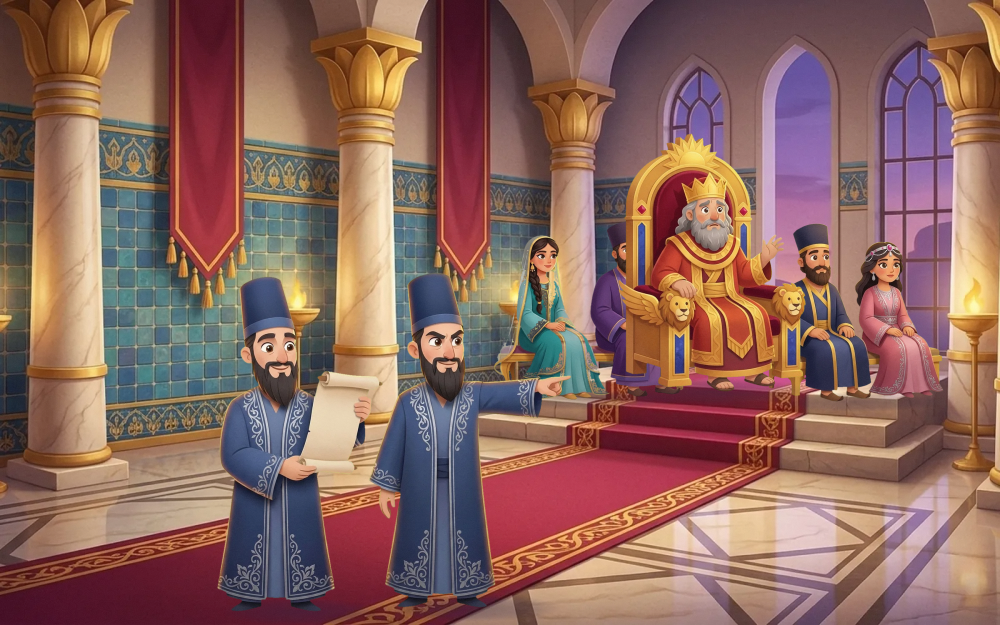
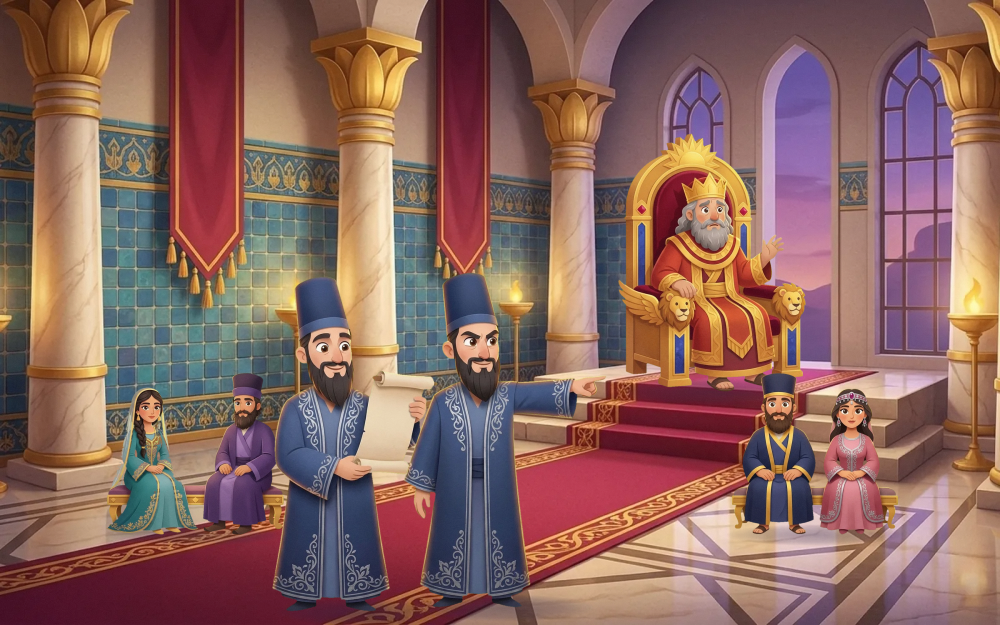
Daniel page 2: courtiers on the floor beside the carpet, facing the room
Both pairs regenerated facing the viewer and moved off the dais to floor
level either side of the carpet, inside the phone-safe zone. The officials
step right so the purple courtier stays visible; the scroll hotspot follows.

Changed region(s): [[0.093, 0.3648, 0.682, 1.0], [0.713, 0.3344, 0.961, 0.8816]]

diff --git a/src/scenes/daniel.tsx b/src/scenes/daniel.tsx
@@ -103,29 +103,6 @@ export function TheTrap() {
   return (
     <>
       <Backdrop src={trapBg} />
-      {/* courtiers seated on the dais either side of the throne, behind it */}
-      <SoftShadow x={590} y={400} rx={90} ry={10} opacity={0.35} />
-      <Layer
-        src={trapCourtiersLeft}
-        w={L["courtiers-left"].w}
-        h={L["courtiers-left"].h}
-        x={590}
-        y={400}
-        scale={0.32}
-        className="a-breathe-slow"
-        delay={1.1}
-      />
-      <SoftShadow x={855} y={402} rx={90} ry={10} opacity={0.35} />
-      <Layer
-        src={trapCourtiersRight}
-        w={L["courtiers-right"].w}
-        h={L["courtiers-right"].h}
-        x={855}
-        y={402}
-        scale={0.32}
-        className="a-breathe-slow"
-        delay={2.3}
-      />
       <SoftShadow x={712} y={392} rx={100} ry={14} opacity={0.4} />
       <Layer
         src={trapKing}
@@ -136,22 +113,45 @@ export function TheTrap() {
         scale={0.37}
         className="a-breathe-slow"
       />
-      <SoftShadow x={300} y={612} rx={80} ry={14} opacity={0.4} />
+      {/* courtiers seated on the floor either side of the carpet, facing the room */}
+      <SoftShadow x={195} y={535} rx={90} ry={11} opacity={0.35} />
+      <Layer
+        src={trapCourtiersLeft}
+        w={L["courtiers-left"].w}
+        h={L["courtiers-left"].h}
+        x={195}
+        y={535}
+        scale={0.29}
+        className="a-breathe-slow"
+        delay={1.1}
+      />
+      <SoftShadow x={815} y={535} rx={90} ry={11} opacity={0.35} />
+      <Layer
+        src={trapCourtiersRight}
+        w={L["courtiers-right"].w}
+        h={L["courtiers-right"].h}
+        x={815}
+        y={535}
+        scale={0.29}
+        className="a-breathe-slow"
+        delay={2.3}
+      />
+      <SoftShadow x={355} y={612} rx={80} ry={14} opacity={0.4} />
       <Layer
         src={trapOfficialScroll}
         w={L["official-scroll"].w}
         h={L["official-scroll"].h}
-        x={300}
+        x={355}
         y={612}
         scale={0.42}
         className="a-breathe"
       />
-      <SoftShadow x={470} y={608} rx={90} ry={14} opacity={0.4} />
+      <SoftShadow x={505} y={608} rx={90} ry={14} opacity={0.4} />
       <Layer
         src={trapOfficialPoint}
         w={L["official-point"].w}
         h={L["official-point"].h}
-        x={470}
+        x={505}
         y={608}
         scale={0.42}
         className="a-breathe-slow"

diff --git a/src/data/stories/daniel.ts b/src/data/stories/daniel.ts
@@ -58,7 +58,7 @@ export const daniel: Story = {
       hotspots: [
         {
           id: "scroll",
-          x: 32,
+          x: 38,
           y: 64,
           size: 22,
           label: "the new law",

diff --git a/docs/evidence/2026-09-18-trap-palace/record.md b/docs/evidence/2026-09-18-trap-palace/record.md
@@ -74,3 +74,29 @@ around the throne; both male and female courtiers." Background kept.
   `courtiers-right-sidecar.json`. Final render `trap-after-court.png`.
 - Browser (fresh context, bundle from this build): king hotspot lands on the
   king with the new throne; `trap-court-phone.png`.
+
+## Round 3: courtiers on the floor beside the carpet, facing the room
+
+User: "The courtiers should be seated to the side of the carpets and the
+king's throne facing the room, not to the sides."
+
+- Both pairs regenerated facing the viewer straight on (the round-2 pairs
+  were turned toward the centre); raws kept locally as
+  `courtiers-*-v2-turned.png`. Cutouts clean first time
+  (`cutouts-round-3.png`); `courtiers-left` 76 KB, `courtiers-right` 53 KB,
+  scene 414 KB.
+- Placed at floor level either side of the carpet, in front of the dais:
+  left pair (125, 548) scale 0.35, right pair (880, 548) scale 0.36, drawn
+  after the king and before the officials. The scroll official moved from
+  x 300 to 318 so he no longer hides the purple courtier; his hotspot moved
+  from 32 % to 34 %. `trap-after-court.png` replaced with the round-3 render;
+  the sidecars replaced with the round-3 ones (round-2 sidecars are in the
+  previous commit).
+- The first phone still clipped both outer courtiers: the phone stage keeps
+  roughly x 90–910 of the viewBox. Pairs moved inward and a step back, left
+  (195, 535) and right (815, 535) at scale 0.29; officials shifted right to
+  x 355 and 505 so the purple courtier stays visible; scroll hotspot from
+  34 % to 38 %. Render and phone still replaced with this layout.
+- Browser, fresh context on this build (`index-BlhP43lk.js`): six layers,
+  scroll hotspot tapped, both pairs fully inside the phone frame;
+  `trap-court-phone.png`.

diff --git a/handoff.md b/handoff.md
@@ -14,7 +14,8 @@ secret scan or audit). The latest increment closes that gap with local gates.
 
 Latest: **Daniel page 2: grander throne and seated courtiers** (round 2 on the
 same page: `king-throne` regenerated, two new seated pairs `courtiers-left` /
-`courtiers-right` on the dais; a green robe got chroma-keyed once, regenerated
+`courtiers-right` on the floor either side of the carpet, facing the room (round 3;
+round 2 had them on the dais, turned inward); a green robe got chroma-keyed once, regenerated
 in navy, README rule added; scene 415 KB). Round 1 was the **palace background
 regenerated, richer and more royal** (background
 only: marble and gilded lotus columns, crimson carpet, blue-gold tile, banners,
